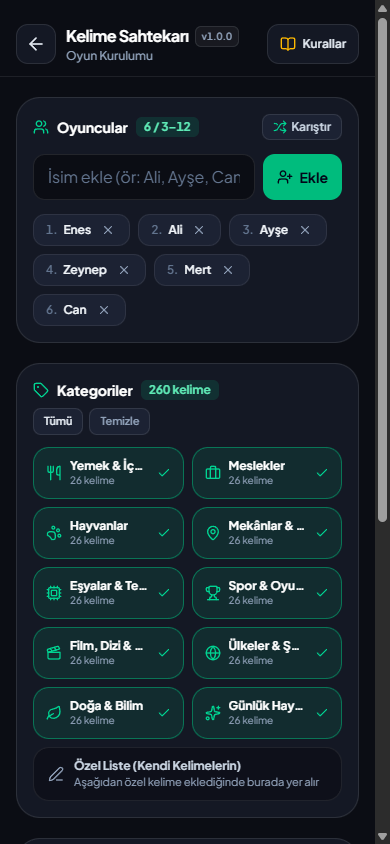
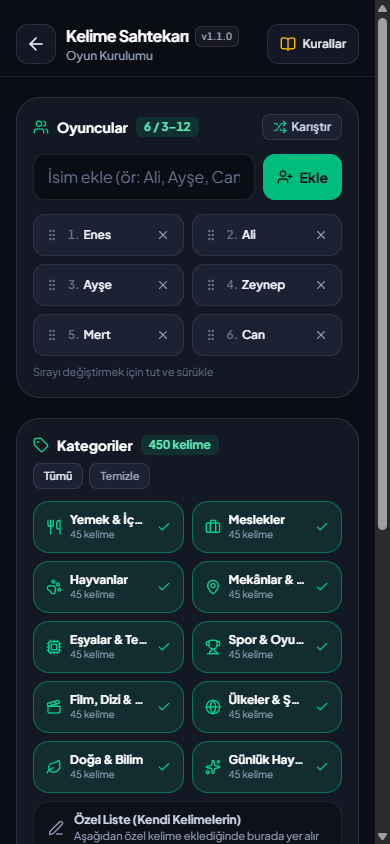
docs: document v1.4.1 drag-reorder, 450 words and harder hints

diff --git a/README.md b/README.md
@@ -7,9 +7,9 @@
   **Arkadaş grupları için tasarlanmış; tamamen ücretsiz, reklamsız, çevrimdışı çalışabilen mobil öncelikli pass-and-play parti oyunları hub'ı.**
 
   [![Canlı Uygulama](https://img.shields.io/badge/Canlı%20Site-teneffus.ns--som.workers.dev-f59e0b?style=for-the-badge&logo=cloudflare&logoColor=white)](https://teneffus.ns-som.workers.dev/)
-  [![Site Sürümü](https://img.shields.io/badge/Hub%20Sürümü-v1.4.0-10b981?style=for-the-badge)](CHANGELOG.md)
-  [![Vampir-Köylü](https://img.shields.io/badge/Vampir--Köylü-v1.3.0-f43f5e?style=for-the-badge)](CHANGELOG.md)
-  [![Kelime Sahtekarı](https://img.shields.io/badge/Kelime%20Sahtekarı-v1.0.0-10b981?style=for-the-badge)](CHANGELOG.md)
+  [![Site Sürümü](https://img.shields.io/badge/Hub%20Sürümü-v1.4.1-10b981?style=for-the-badge)](CHANGELOG.md)
+  [![Vampir-Köylü](https://img.shields.io/badge/Vampir--Köylü-v1.3.1-f43f5e?style=for-the-badge)](CHANGELOG.md)
+  [![Kelime Sahtekarı](https://img.shields.io/badge/Kelime%20Sahtekarı-v1.1.0-10b981?style=for-the-badge)](CHANGELOG.md)
   [![Mimari](https://img.shields.io/badge/Mimari-React%2019%20%7C%20TS%20%7C%20PWA-6366f1?style=for-the-badge)](docs/ARCHITECTURE.md)
   [![Gizlilik](https://img.shields.io/badge/Gizlilik-%25100%20Cihazda-06b6d4?style=for-the-badge)](docs/PRIVACY.md)
   [![Lisans](https://img.shields.io/badge/Lisans-Tüm%20Hakları%20Saklıdır-475569?style=for-the-badge)](LICENSE)
@@ -45,9 +45,9 @@
         <em>Vampir-Köylü v1.3.0: Mod, Rol Dağıtımı ve Kurallar</em>
       </td>
       <td align="center" width="33%">
-        <img src="assets/screenshots/kelime-sahtekari.png" alt="Kelime Sahtekarı Oyun Kurulumu" width="240">
+        <img src="assets/screenshots/kelime-sahtekari.png" alt="Kelime Sahtekarı v1.1.0 Oyun Kurulumu" width="240">
         <br>
-        <em>Kelime Sahtekarı v1.0.0: 10 Kategori, Özel Liste ve Son Şans Modları</em>
+        <em>Kelime Sahtekarı v1.1.0: Tut-Sürükle Sıralama, 450 Kelime ve 10 Kategori</em>
       </td>
     </tr>
   </table>
@@ -61,20 +61,20 @@
 - **%100 Ücretsiz & Reklamsız:** Oyun akışını bölen reklamlar, abonelikler veya sunucu bağımlılığı yoktur.
 - **Çevrimdışı PWA Desteği:** Ana ekrana eklenebilir (`manifest.webmanifest`) ve Service Worker önbelleği sayesinde internet bağlantısı olmadığında da çalışır.
 - **Mobil UX Koruması:** Mobilde basılı tutma sırasında metin seçimi/kopyalama menüsünü, istenmeyen yakınlaştırmayı (pinch-zoom / input auto-zoom) ve ekran kaymalarını engelleyen özel dokunmatik koruma katmanıyla gelir.
-- **Paylaşılan Oyuncu Ekibi:** Arkadaş grubunuzun isimlerini Hub'da bir kez kaydedin; tüm oyun kurulumlarına otomatik aktarılsın ve devam eden oyunlarınız tarayıcı kapanınca bile kaybolmasın.
+- **Paylaşılan Oyuncu Ekibi & Tut-Sürükle Sıralama:** Arkadaş grubunuzun isimlerini Hub'da veya oyun kurulumunda bir kez kaydedin, dokunmatik/fare destekli **tut-sürükle** ile masa oturma düzeninize göre sıralayın.
 
 ---
 
 ## Oynanabilir Oyunlar
 
-### 1. Kelime Sahtekarı (`v1.0.0` • 3–12 Kişi • 5–12 dk)
+### 1. Kelime Sahtekarı (`v1.1.0` • 3–12 Kişi • 5–12 dk)
 Herkesin aynı gizli kelimeyi bildiği, sahtekarların ise blöf yaptığı tek kelimelik ipucu ve çıkarım oyunu:
-- **10 Hazır Kategori • 260 Kürasyonlu Kelime:** *Yemek & İçecek*, *Meslekler*, *Hayvanlar*, *Mekânlar & Yerler*, *Eşyalar & Teknoloji*, *Spor & Oyunlar*, *Film, Dizi & Kültür*, *Ülkeler & Şehirler*, *Doğa & Bilim*, *Günlük Hayat & Kavramlar* — tek veya çoklu seçim desteğiyle.
+- **10 Hazır Kategori • 450 Kürasyonlu Kelime:** *Yemek & İçecek*, *Meslekler*, *Hayvanlar*, *Mekânlar & Yerler*, *Eşyalar & Teknoloji*, *Spor & Oyunlar*, *Film, Dizi & Kültür*, *Ülkeler & Şehirler*, *Doğa & Bilim*, *Günlük Hayat & Kavramlar* — tek veya çoklu seçim desteğiyle.
 - **Özel Kelime Listesi:** Kendi arkadaş grubunuza veya sınıfınıza özel kelimeler ekleyip cihazınızda saklayabilirsiniz.
 - **4 Farklı "Son Şans (Oyunu Çalma)" Modu:** Yakalanan sahtekar gizli kelimeyi **6 Şıklı** seçimden bulabilir, **Yazarak** (büyük/küçük harf ve Türkçe karakter toleranslı) tahmin edebilir, **Sözlü (Masa Onaylı)** söyleyebilir ya da bu kural tamamen **Kapalı** oynanabilir.
-- **Eşit Yükseklikli Anti-İpucu Kartları & Özelleştirilebilir Zorluk:** Bilen ve Sahtekar kartları aynı yüksekliğe sahiptir; sahtekara kategori veya zayıf çağrışım ipucu gösterme, birden fazla sahtekarın birbirini görmesi, Açık Masa / Gizli oylama ve tekrarsız kelime havuzu ayarlanabilir.
+- **Eşit Yükseklikli Anti-İpucu Kartları & Dengeli Çağrışımlar:** Bilen ve Sahtekar kartları aynı yüksekliğe sahiptir; sahtekara kategori veya cevabı doğrudan ele vermeyen zorlaştırılmış çağrışım ipuçları gösterme, Açık Masa / Gizli oylama ve tekrarsız kelime havuzu ayarlanabilir.
 
-### 2. Vampir-Köylü (`v1.3.0` • 4–16 Kişi • 10–25 dk)
+### 2. Vampir-Köylü (`v1.3.1` • 4–16 Kişi • 10–25 dk)
 Masa başı klasiği **Vampir-Köylü**, elden ele mobil deneyime özel mekaniklerle sıfırdan tasarlandı:
 - **İki Oynanış Modu:** Tam elden ele **Moderatörsüz** mod veya tek ekrandan akışı yöneten **Anlatıcı Yardımcılı** mod.
 - **6 Farklı Rol:** *Vampir*, *Köylü*, *Doktor*, *Dedektif*, her gece hedef güncelleyebilen ön-hedefli *Avcı* ve gündüz asılırsa tek başına kazanan *Deli*.
@@ -88,7 +88,7 @@ Masa başı klasiği **Vampir-Köylü**, elden ele mobil deneyime özel mekanikl
 | Katman | Seçilen Teknoloji & Yaklaşım |
 | :--- | :--- |
 | **Arayüz** | React 19, TypeScript (strict), Tailwind CSS v4, Lucide İkonları |
-| **Derleme & Test** | Vite 8, Vitest (29 saf motor birim testi: 19 Vampir-Köylü + 10 Kelime Sahtekarı), ESLint |
+| **Derleme & Test** | Vite 8, Vitest (32 saf birim testi: 19 Vampir-Köylü + 10 Kelime Sahtekarı + 3 Sıralama), ESLint |
 | **Mimari** | Oyun motorlarının UI'dan izole edildiği Registry tabanlı modüler yapı ([Architecture Docs](docs/ARCHITECTURE.md)) |
 | **Veri & Gizlilik** | `%100` tarayıcı içi (`localStorage`), sıfır sunucu / sıfır takip ([Privacy Policy](docs/PRIVACY.md)) |
 | **Yayınlama & CDN** | PWA Service Worker + Cloudflare Workers Static Assets (SPA fallback, sınırsız statik istek) |
@@ -99,8 +99,8 @@ Masa başı klasiği **Vampir-Köylü**, elden ele mobil deneyime özel mekanikl
 
 **Teneffüs** is a mobile-first, offline-capable Turkish pass-and-play party game hub built with **React 19**, **strict TypeScript**, **Tailwind CSS v4**, and **Vite 8**, deployed on **Cloudflare Workers Static Assets** (`https://teneffus.ns-som.workers.dev`).
 
-- **Multi-Game Modular Architecture:** Hosts both **Vampir-Köylü** (`v1.3.0`, 4–16 players, 6 roles) and **Kelime Sahtekarı** (`v1.0.0`, 3–12 players, 10 categories / 260 curated Turkish words + custom word lists + multiple-choice, Turkish-normalized typed, and verbal steal mechanics) behind a unified plugin-style game registry and shared persistent roster.
-- **Decoupled Game Engines:** Pure functional TypeScript state machines for every game, verified by **29 Vitest unit tests** independently of React components.
+- **Multi-Game Modular Architecture:** Hosts both **Vampir-Köylü** (`v1.3.1`, 4–16 players, 6 roles) and **Kelime Sahtekarı** (`v1.1.0`, 3–12 players, 10 categories / 450 curated Turkish words + custom word lists + multiple-choice, Turkish-normalized typed, and verbal steal mechanics) behind a unified plugin-style game registry and touch/mouse drag-sortable persistent roster.
+- **Decoupled Game Engines:** Pure functional TypeScript state machines for every game, verified by **32 Vitest unit tests** independently of React components.
 - **Pass-and-Play Security & Mobile Polish:** Uniform-height anti-leakage cards, hold-to-reveal privacy shields, decoy night actions to normalize turn durations, and touch guards preventing accidental text selection or mobile zoom during group handoffs.
 - **Zero-Backend PWA:** Offline app-shell caching via a custom Service Worker and persistent localStorage game state.
 

diff --git a/docs/ARCHITECTURE.md b/docs/ARCHITECTURE.md
@@ -13,7 +13,7 @@ Teneffüs, birbirinden bağımsız elden ele parti oyunlarını tek bir çatı a
 
 ## 3. İzole Oyun Motorları (`Vampir-Köylü` & `Kelime Sahtekarı`)
 - **Vampir-Köylü:** Rol dağıtımı, gece çözümleme, koruma/sorgu/avcı zincirleri ve oylama akışı **19 Vitest birim testi** ile doğrulanır.
-- **Kelime Sahtekarı:** 10 kategori (260 kelime) + özel liste havuzu, tekrarsız kelime seçimi, Açık Masa / Gizli oylama, Türkçe karakter esnekliğiyle yazarak tahmin ve şıklı/sözlü son şans kuralları **10 Vitest birim testi** ile doğrulanır (toplam **29 birim testi**).
+- **Kelime Sahtekarı:** 10 kategori (450 kelime) + özel liste havuzu, zorlaştırılmış çağrışım ipuçları, tekrarsız kelime seçimi, Açık Masa / Gizli oylama, Türkçe karakter esnekliğiyle yazarak tahmin ve şıklı/sözlü son şans kuralları **10 Vitest birim testi** ile doğrulanır; tut-sürükle sıralama yardımcısı **3 birim testi** ile kapsanır (toplam **32 birim testi**).
 
 ## 4. Çevrimdışı PWA & Edge Dağıtımı
 - **Service Worker:** Uygulama kabuğu (`/`), `manifest.webmanifest`, uygulama simgesi ve hash'li Vite JS/CSS paketleri cihazda önbelleğe alınır.

diff --git a/CHANGELOG.md b/CHANGELOG.md
@@ -1,5 +1,12 @@
 # Sürüm Geçmişi (Changelog)
 
+## v1.4.1 (Sürükle-Bırak Sıralama & 450 Kelime — 2026-11-21)
+- **Tut-Sürükle Oyuncu Sıralama:** Hub Oyuncu Ekibi (`RosterSheet`), Vampir-Köylü (`v1.3.1`) ve Kelime Sahtekarı (`v1.1.0`) kurulum ekranlarına dokunmatik ve fare destekli sürükle-bırak sıralama eklendi.
+- **Kelime Sahtekarı `v1.1.0`:**
+  - Toplam kelime havuzu 10 kategoride **260 → 450** benzersiz Türkçe kelimeye çıkarıldı (`45` kelime/kategori).
+  - Sahtekar çağrışım ipuçları cevabı doğrudan ele vermeyecek şekilde daha dengeli ve ince ipuçlarıyla yenilendi.
+- **PWA Önbelleği:** Service Worker önbellek sürümü `teneffus-v1.4.1` olarak güncellendi.
+
 ## v1.4.0 (Kelime Sahtekarı v1.0.0 Lansmanı — 2026-11-21)
 - **Yeni Oyun — Kelime Sahtekarı `v1.0.0`:**
   - 10 kategoride 260 kürasyonlu Türkçe kelime ve tek/çoklu kategori seçimi eklendi.
